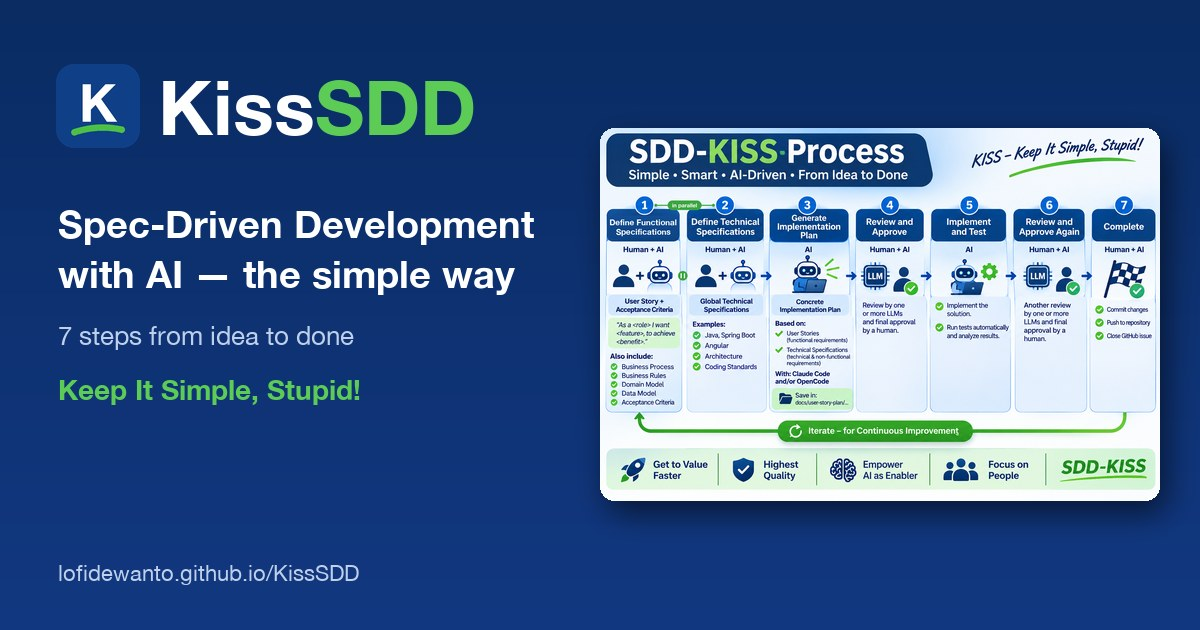
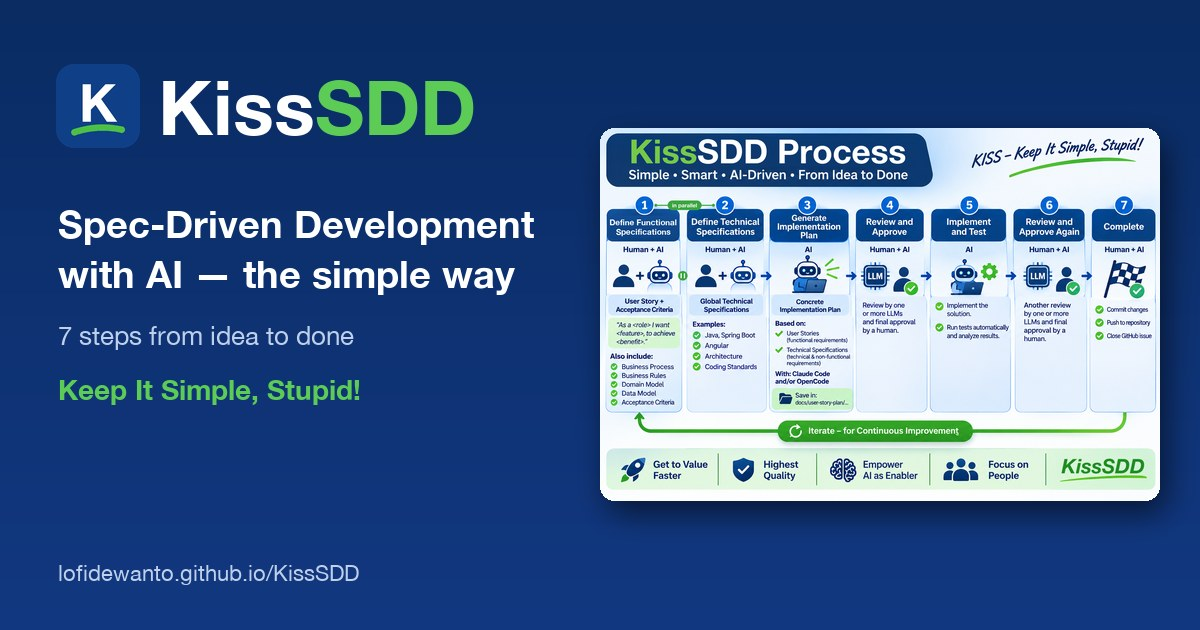
Rename infographics to KissSDD, add README
- Infographic titles and logo: SDD-KISS -> KissSDD (EN/DE)
- Regenerate link preview image; bust preview cache with ?v=2
- README describing the repo with link to the GitHub Pages site

Changed region(s): [[0.5242, 0.2111, 0.7708, 0.2714], [0.8633, 0.7238, 0.9558, 0.754]]

diff --git a/index.html b/index.html
@@ -22,8 +22,8 @@
 <meta property="og:title" content="KissSDD – Spec-Driven Development with AI, the simple way">
 <meta property="og:description" content="7 steps from idea to done. Start with a well-thought-out User Story, let AI plan and build, keep humans in charge. Keep It Simple, Stupid!">
 <meta property="og:url" content="https://lofidewanto.github.io/KissSDD/">
-<meta property="og:image" content="https://lofidewanto.github.io/KissSDD/img/og-en.jpg">
-<meta property="og:image:secure_url" content="https://lofidewanto.github.io/KissSDD/img/og-en.jpg">
+<meta property="og:image" content="https://lofidewanto.github.io/KissSDD/img/og-en.jpg?v=2">
+<meta property="og:image:secure_url" content="https://lofidewanto.github.io/KissSDD/img/og-en.jpg?v=2">
 <meta property="og:image:type" content="image/jpeg">
 <meta property="og:image:width" content="1200">
 <meta property="og:image:height" content="630">
@@ -34,7 +34,7 @@
 <meta name="twitter:card" content="summary_large_image">
 <meta name="twitter:title" content="KissSDD – Spec-Driven Development with AI, the simple way">
 <meta name="twitter:description" content="7 steps from idea to done. Keep It Simple, Stupid!">
-<meta name="twitter:image" content="https://lofidewanto.github.io/KissSDD/img/og-en.jpg">
+<meta name="twitter:image" content="https://lofidewanto.github.io/KissSDD/img/og-en.jpg?v=2">
 <style>
   :root {
     --navy: #0f3f86;

diff --git a/README.md b/README.md
@@ -1,0 +1,50 @@
+# KissSDD
+
+**🌐 Website: [lofidewanto.github.io/KissSDD](https://lofidewanto.github.io/KissSDD/)**
+
+**Spec-Driven Development (SDD) with AI, the simple way. Keep It Simple, Stupid!**
+
+This repository holds the homepage for **KissSDD**, a simple approach to Specification-Driven Development with AI coding agents such as Claude Code or OpenCode. It is a static website, published with GitHub Pages. There is no application code and no build step.
+
+![KissSDD process](img/sdd-kiss-en.png)
+
+## The idea
+
+There are many SDD frameworks (AI Unified Process, GitHub Spec Kit, OpenSpec, BMAD, Get Shit Done …). If you are new to SDD, don't start with one of them. Start simple:
+
+1. **Define Functional Specifications** (Human + AI): a User Story with acceptance criteria in a GitHub Issue.
+2. **Define Technical Specifications** (Human + AI): global specs such as stack, architecture and coding standards. *Can be done in parallel with step 1.*
+3. **Generate Implementation Plan** (AI): saved in `docs/user-story-plan/…`.
+4. **Review and Approve** (Human + AI): one or more LLMs review, a human approves.
+5. **Implement and Test** (AI)
+6. **Review and Approve Again** (Human + AI)
+7. **Complete** (Human + AI): commit, push, close the GitHub Issue.
+
+Then iterate for continuous improvement. The full explanation, model recommendations per step, and next steps are on the [website](https://lofidewanto.github.io/KissSDD/), in English and German.
+
+## Repository contents
+
+| Path | What it is |
+|---|---|
+| `index.html` | The whole website: one self-contained page, English/German switch, light/dark mode |
+| `img/sdd-kiss-en.png`, `img/sdd-kiss-de.png` | Process infographics (English / German) |
+| `img/og-en.jpg` | 1200×630 link preview image for LinkedIn, WhatsApp etc. |
+| `img/icons/`, `favicon.ico`, `site.webmanifest` | Browser and home-screen icons |
+| `.nojekyll` | Tells GitHub Pages to serve the files as they are |
+
+## Run locally
+
+Open `index.html` in a browser, or serve the folder:
+
+```sh
+python3 -m http.server 8000
+# → http://localhost:8000
+```
+
+## Deployment
+
+GitHub Pages serves the root of the `main` branch. Every push to `main` updates the website.
+
+## Author
+
+[Dr. Lofi Dewanto](https://de.linkedin.com/in/dr-lofi-dewanto). Original idea: [LinkedIn post](https://lnkd.in/p/exjrYTQB).
